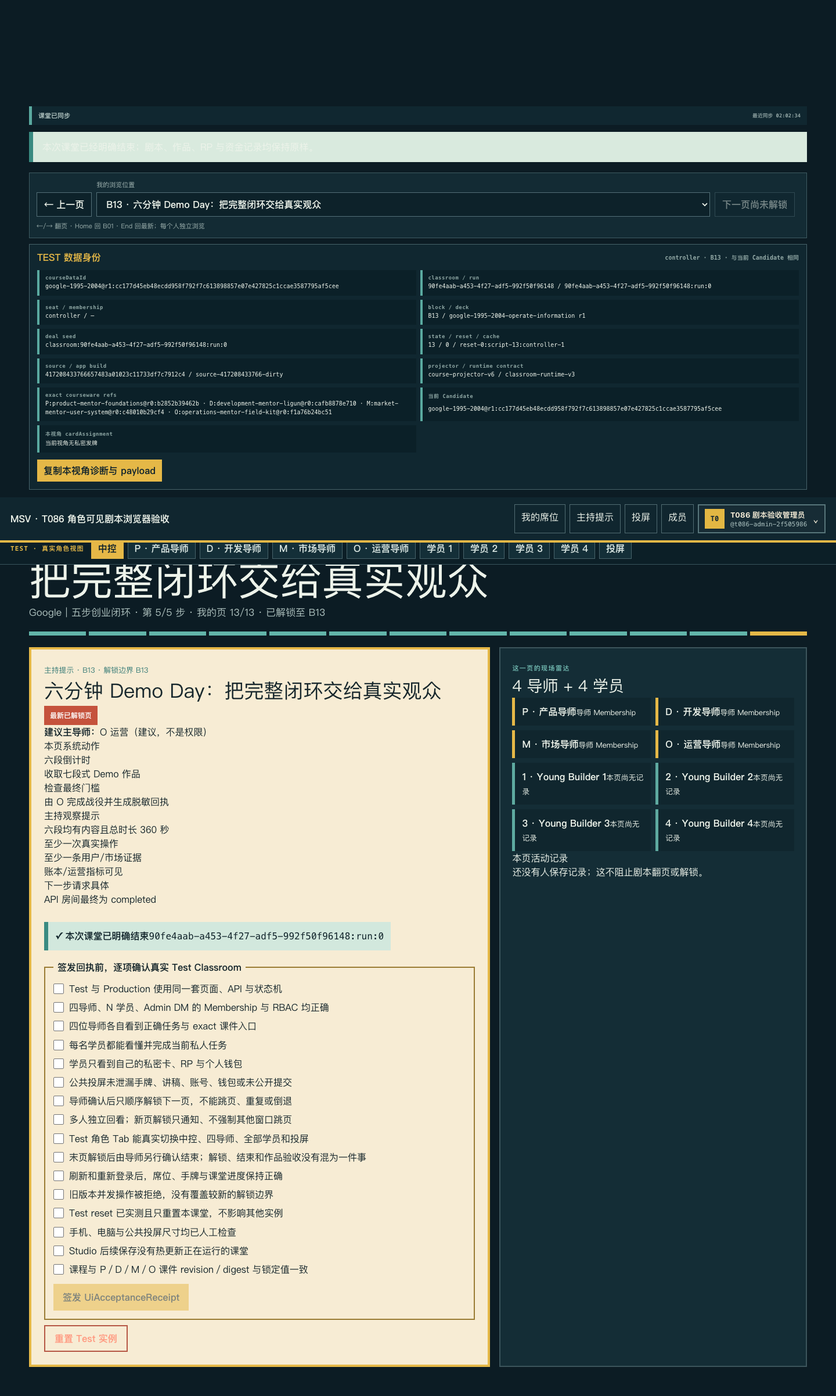
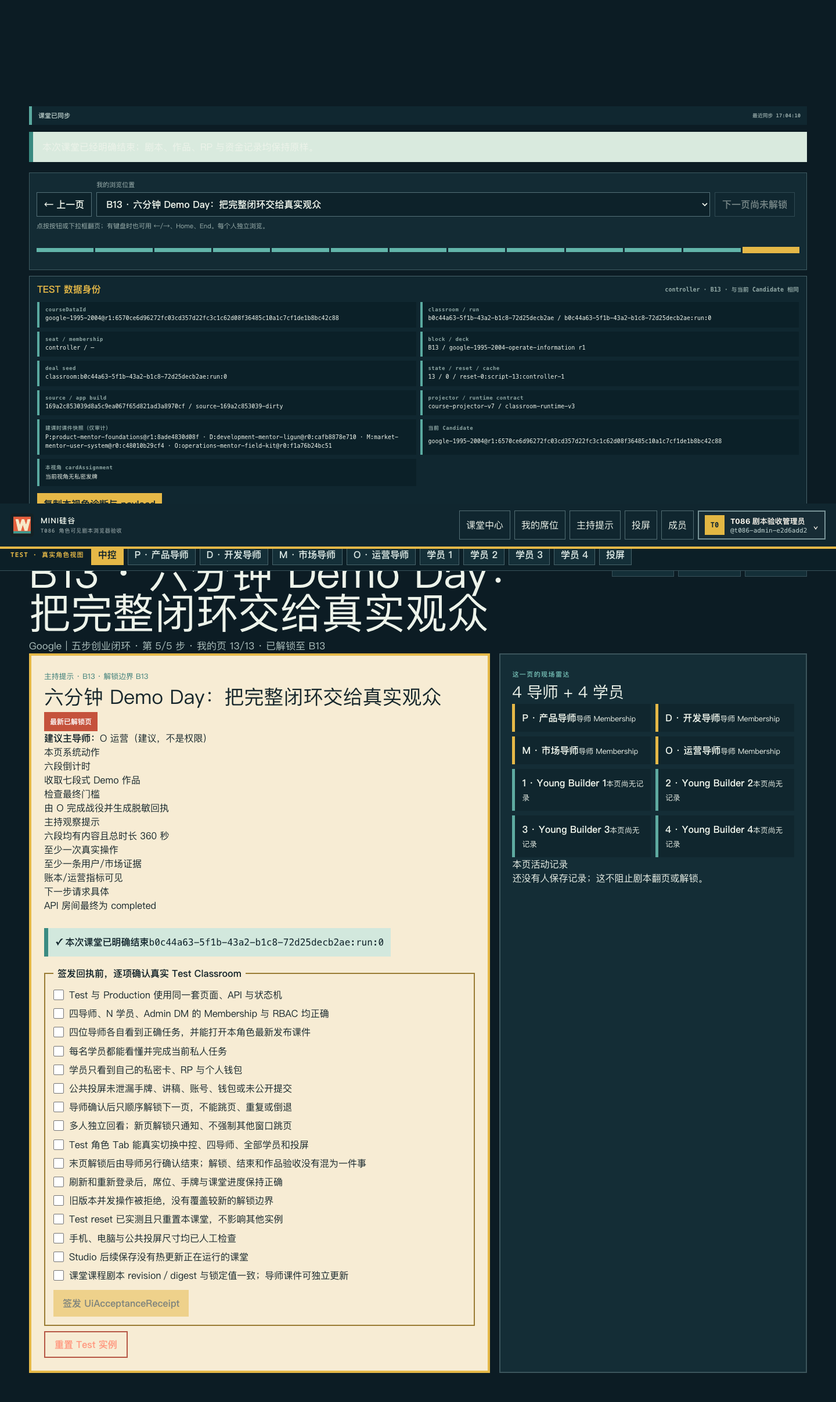
补齐全站主页Logo并纠正任务状态
Bug修复:
- 为课堂运行时、投屏、课件外壳和加载错误态补齐共享主页Logo
- 将课程框架旧顶部标记修复为可访问的根主页入口
- 修复移动端课堂进度条按钮造成的横向溢出

测试:
- 扩展品牌契约与真实课堂浏览器点击、键盘和移动端回归
- 更新T-086浏览器验收截图与机器回执

文档:
- 修正T-082、T-109和T-097的虚假完成状态与品牌路由边界

diff --git a/app/classroom/platform.module.css b/app/classroom/platform.module.css
@@ -10,6 +10,7 @@
 .pageNavigator{display:grid;grid-template-columns:auto minmax(220px,1fr) auto auto;align-items:end;gap:8px;margin-bottom:18px;padding:12px;background:#132b34;border:1px solid #3e5b62}
 .pageNavigator label{display:grid;min-width:0;gap:4px}.pageNavigator label span,.pageNavigator>small{color:#9db1ae;font-size:11px}
 .pageNavigator select,.pageNavigator button{min-height:42px;padding:0 12px;color:#edf3ea;background:#0d222a;border:1px solid #547078;font-weight:800}.pageNavigator select{width:100%;min-width:0}
+.pageNavigator .progressSegment{min-width:0;min-height:44px;padding:0;background:transparent;border:0}
 .pageNavigator button:disabled{cursor:not-allowed;opacity:.45}.pageNavigator .latestButton{color:#10232c;background:#72bbb2;border-color:#72bbb2}.pageNavigator>small{grid-column:1/-1}
 .screenShell{padding:0}.screenShell>.pageNavigator{margin:12px 18px}.screenShell>.notice,.screenShell>.error{margin:12px 18px}
 .dialogBackdrop{position:fixed;z-index:100;inset:0;display:grid;place-items:center;padding:18px;background:#061016d9}
@@ -52,13 +53,20 @@
 .privacyShield{position:fixed;z-index:1000;inset:0;display:none;place-content:center;gap:12px;padding:max(28px,env(safe-area-inset-top)) max(28px,env(safe-area-inset-right)) max(28px,env(safe-area-inset-bottom)) max(28px,env(safe-area-inset-left));color:#f8efd8;background:#0c1c24;background-image:linear-gradient(rgba(98,181,170,.08) 1px,transparent 1px),linear-gradient(90deg,rgba(98,181,170,.08) 1px,transparent 1px);background-size:32px 32px;text-align:center}.privacyShield span{color:#e5b847;font:900 12px var(--font-mono);letter-spacing:.14em}.privacyShield b{font-size:clamp(30px,7vw,64px);line-height:1.05}.privacyShield small{color:#adc0bd;font-size:16px}:global(html[data-msv-classroom-concealed="true"]) .privacyShield{display:grid}
 .runtime button,.runtime a,.runtime input,.runtime textarea,.runtime select{touch-action:manipulation}
 .runtimeTop a{display:inline-flex;align-items:center}
+.runtimeBrand{min-width:0;max-width:min(420px,42vw)}
+.runtimeBrand :global(.msv-brand-home__mark){width:40px;height:40px;flex-basis:40px}
+.runtimeBrand :global(.msv-brand-home__copy){min-width:0}
+.runtimeBrand :global(.msv-brand-home__copy strong),.runtimeBrand :global(.msv-brand-home__copy small){overflow:hidden;text-overflow:ellipsis;white-space:nowrap}
+.runtimeStandaloneBrand{display:flex;align-items:center;padding:max(12px,env(safe-area-inset-top)) max(18px,env(safe-area-inset-right)) 12px max(18px,env(safe-area-inset-left));color:#f8efd8;background:#10262f;border-bottom:4px solid #e5b847}
+.screenBrand{position:fixed;z-index:30;top:max(18px,env(safe-area-inset-top));left:max(18px,env(safe-area-inset-left));display:grid;width:48px;height:48px;place-items:center;padding:2px;background:#10262fe6;border:2px solid #e5b847;box-shadow:4px 4px 0 #071820}
+.screenBrand :global(.msv-brand-home__mark){width:40px;height:40px;flex-basis:40px}
 .runtimeTop{padding-top:max(12px,env(safe-area-inset-top));padding-right:max(18px,env(safe-area-inset-right));padding-left:max(18px,env(safe-area-inset-left))}
 .runtimeMain{padding-right:max(clamp(18px,4vw,50px),env(safe-area-inset-right));padding-bottom:max(clamp(18px,4vw,50px),calc(env(safe-area-inset-bottom) + 18px));padding-left:max(clamp(18px,4vw,50px),env(safe-area-inset-left))}
 .testRoleTabs{padding-right:max(18px,env(safe-area-inset-right));padding-left:max(18px,env(safe-area-inset-left))}
 .submission textarea,.structuredForm input,.structuredForm textarea,.reviewCard textarea{font-size:16px;scroll-margin-block:18svh 36svh}
 .privateCard{overflow-wrap:anywhere}
 @media(pointer:coarse){.runtime button,.runtime a,.runtime select{min-height:44px}.testRoleTabs button,.pageNavigator button,.pageNavigator select,.syncStatus button{min-height:44px}}
-@media(max-width:700px){.runtimeTop{padding-top:max(10px,env(safe-area-inset-top));padding-right:max(12px,env(safe-area-inset-right));padding-left:max(12px,env(safe-area-inset-left))}.runtimeMain{padding-top:18px;padding-right:max(12px,env(safe-area-inset-right));padding-bottom:max(42px,calc(env(safe-area-inset-bottom) + 24px));padding-left:max(12px,env(safe-area-inset-left))}.testRoleTabs{padding-right:max(12px,env(safe-area-inset-right));padding-left:max(12px,env(safe-area-inset-left))}.pageNavigator select,.pageNavigator button{min-height:48px}.card{padding:16px}.privateCard{padding:16px;font-size:16px}.privateCard p,.privateCard span{line-height:1.6}.structuredForm input,.structuredForm textarea,.submission textarea,.reviewCard textarea{font-size:16px}.screenControls{right:max(10px,env(safe-area-inset-right));bottom:max(10px,env(safe-area-inset-bottom));left:max(10px,env(safe-area-inset-left))}}
+@media(max-width:700px){.runtimeTop{padding-top:max(10px,env(safe-area-inset-top));padding-right:max(12px,env(safe-area-inset-right));padding-left:max(12px,env(safe-area-inset-left))}.runtimeBrand{width:44px;min-width:44px}.runtimeBrand :global(.msv-brand-home__copy){display:none}.runtimeMain{padding-top:18px;padding-right:max(12px,env(safe-area-inset-right));padding-bottom:max(42px,calc(env(safe-area-inset-bottom) + 24px));padding-left:max(12px,env(safe-area-inset-left))}.testRoleTabs{padding-right:max(12px,env(safe-area-inset-right));padding-left:max(12px,env(safe-area-inset-left))}.pageNavigator select,.pageNavigator button{min-height:48px}.card{padding:16px}.privateCard{padding:16px;font-size:16px}.privateCard p,.privateCard span{line-height:1.6}.structuredForm input,.structuredForm textarea,.submission textarea,.reviewCard textarea{font-size:16px}.screenControls{right:max(10px,env(safe-area-inset-right));bottom:max(10px,env(safe-area-inset-bottom));left:max(10px,env(safe-area-inset-left))}}
 
 /* T-111 · dependency-aware physical deletion for isolated TEST instances. */
 .deleteRoomAction{color:#fff3df!important;background:#8b3028!important;border-color:#ef7557!important}.deleteRoomAction:hover,.deleteRoomAction:focus-visible{background:#a93d31!important}.deleteDialog{width:min(820px,100%);max-height:min(92svh,900px);overflow:auto}.deleteTarget{display:grid;gap:5px;padding:13px;color:#f8efd8;background:#142d36;border-left:7px solid #ef7557}.deleteTarget b{font-size:20px}.deleteTarget span{color:#e5b847;font:900 11px var(--font-mono);letter-spacing:.08em}.deleteTarget code{color:#bed0cc;font:11px/1.45 var(--font-mono);overflow-wrap:anywhere}.deletePreviewState,.deleteTombstone{padding:12px;line-height:1.5}.deletePreviewState{color:#173039;background:#d9eade;border-left:6px solid #5aa99f}.deleteTombstone{color:#5d342c;background:#f2dfae;border-left:6px solid #c5523c}.deleteColumns{display:grid;grid-template-columns:repeat(2,minmax(0,1fr));gap:10px;margin-top:13px}.deleteColumns>section{padding:13px;background:#fffaf0;border:2px solid #baa98a}.deleteColumns h3{margin:0 0 8px}.deleteColumns ul{margin:0;padding-left:20px}.deleteColumns li{margin:5px 0!important}.deleteBlockers{display:grid;gap:9px;margin-top:13px;padding:14px;color:#fff1df;background:#6f302a;border:3px solid #ef7557}.deleteBlockers h3,.deleteBlockers p{margin:0}.deleteBlockers article{display:grid;gap:4px;padding:10px;background:#4c241f}.deleteBlockers article b{color:#ffd36d}.deleteBlockers article p{line-height:1.45}.deleteBlockers code{display:block;color:#f1d8cf;font:10px/1.45 var(--font-mono);overflow-wrap:anywhere}.deleteConfirmation{display:flex;align-items:flex-start;gap:10px;margin-top:14px;padding:13px;color:#fff1df;background:#6f302a;border:2px solid #ef7557;font-weight:900;line-height:1.45}.deleteConfirmation input{width:22px;height:22px;flex:0 0 auto;margin:0;accent-color:#c5523c}.archiveWarning button{min-height:40px;padding:0 12px;color:#17272c;background:#e5b847;border:2px solid #17272c;font-weight:900}@media(max-width:700px){.deleteColumns{grid-template-columns:1fr}.deleteDialog{max-height:96svh}.deleteConfirmation{font-size:14px}}

diff --git a/app/classroom/ClassroomRuntime.tsx b/app/classroom/ClassroomRuntime.tsx
@@ -1,5 +1,6 @@
 "use client";
 import Link from "../components/NavigationLink";
+import { BrandHomeLink } from "../components/BrandHomeLink";
 
 import { useCallback, useEffect, useMemo, useRef, useState, type Dispatch, type SetStateAction } from "react";
 import { AccountMenu, type AccountMenuUser } from "../components/AccountMenu";
@@ -253,7 +254,7 @@ export default function ClassroomRuntime({ classroomId, view, user }: RuntimePro
   };
 
   if (error && !data) return <><ClassroomPrivacyShield /><RuntimeError error={error} /></>;
-  if (!data) return <main className={styles.runtime}><ClassroomPrivacyShield /><div className={styles.runtimeMain}>正在连接这一个 Classroom 实例…</div></main>;
+  if (!data) return <main className={styles.runtime}><ClassroomPrivacyShield /><RuntimeStandaloneBrand /><div className={styles.runtimeMain}>正在连接这一个 Classroom 实例…</div></main>;
   const screenMode = data.environment === "test" && selectedSurface === "screen";
   const readOnly = Boolean(data.archive);
   const roleProjectionReady = data.environment !== "test" || selectedSurface === "control" || selectedSurface === "screen"
@@ -403,8 +404,8 @@ export function ClassroomScreenRuntime({ classroomId }: { classroomId: string })
     return () => window.removeEventListener("keydown", handler);
   }, [data, navigate]);
   if (error && !data) return <RuntimeError error={error} />;
-  if (!data) return <main className={styles.runtime}><div className={styles.runtimeMain}>正在连接课堂共享画面…</div></main>;
-  return <><SharedScreen data={data} />{syncState === "offline" && <div className={styles.screenSync} role="status">投屏连接中断 · 正在等待网络恢复</div>}<div className={styles.screenControls}><button disabled={data.scriptNavigation.viewedIndex <= 0} onClick={() => navigate(data.scriptNavigation.unlockedBlocks[data.scriptNavigation.viewedIndex - 1]?.id)}>← 上一页</button>{data.scriptNavigation.viewedIndex < data.script.unlockedThroughIndex && <button onClick={() => navigate(data.scriptNavigation.latestUnlocked.id)}>回到最新 · {data.scriptNavigation.latestUnlocked.id}</button>}<button disabled={data.scriptNavigation.viewedIndex >= data.script.unlockedThroughIndex} onClick={() => navigate(data.scriptNavigation.unlockedBlocks[data.scriptNavigation.viewedIndex + 1]?.id)}>下一页 →</button></div></>;
+  if (!data) return <main className={styles.runtime}><RuntimeStandaloneBrand /><div className={styles.runtimeMain}>正在连接课堂共享画面…</div></main>;
+  return <><BrandHomeLink markOnly className={styles.screenBrand} /><SharedScreen data={data} />{syncState === "offline" && <div className={styles.screenSync} role="status">投屏连接中断 · 正在等待网络恢复</div>}<div className={styles.screenControls}><button disabled={data.scriptNavigation.viewedIndex <= 0} onClick={() => navigate(data.scriptNavigation.unlockedBlocks[data.scriptNavigation.viewedIndex - 1]?.id)}>← 上一页</button>{data.scriptNavigation.viewedIndex < data.script.unlockedThroughIndex && <button onClick={() => navigate(data.scriptNavigation.latestUnlocked.id)}>回到最新 · {data.scriptNavigation.latestUnlocked.id}</button>}<button disabled={data.scriptNavigation.viewedIndex >= data.script.unlockedThroughIndex} onClick={() => navigate(data.scriptNavigation.unlockedBlocks[data.scriptNavigation.viewedIndex + 1]?.id)}>下一页 →</button></div></>;
 }
 
 function RuntimeTop({ data, classroomId, user, selectedSurface, onSwitch }: { data: ClassroomInstanceDetail; classroomId: string; user: AccountMenuUser; selectedSurface: string; onSwitch: (surface: string) => void }) {
@@ -416,8 +417,8 @@ function RuntimeTop({ data, classroomId, user, selectedSurface, onSwitch }: { da
         ? `${data.adminDmMode === "primary" ? "Primary" : "Delegated"} Admin DM`
         : "课堂成员";
   return <><header className={styles.runtimeTop}>
-    <Link href="/classroom/"><b>MSV · {data.title}</b></Link>
-    <nav aria-label="课堂内导航"><Link href={`/classroom/${classroomId}/`}>我的席位</Link>{data.controlView && <Link href={`/classroom/${classroomId}/control`}>主持提示</Link>}<a href={`/classroom/${classroomId}/screen?block=${encodeURIComponent(data.page.id)}`} target="_blank" rel="noreferrer">投屏</a>{data.isAdminDm && <Link href={`/classroom/${classroomId}/members`}>成员</Link>}<AccountMenu user={user} returnTo={`/classroom/${classroomId}/`} context={{
+    <BrandHomeLink className={styles.runtimeBrand} title="MINI硅谷" subtitle={data.title} />
+    <nav aria-label="课堂内导航"><Link href="/classroom/">课堂中心</Link><Link href={`/classroom/${classroomId}/`}>我的席位</Link>{data.controlView && <Link href={`/classroom/${classroomId}/control`}>主持提示</Link>}<a href={`/classroom/${classroomId}/screen?block=${encodeURIComponent(data.page.id)}`} target="_blank" rel="noreferrer">投屏</a>{data.isAdminDm && <Link href={`/classroom/${classroomId}/members`}>成员</Link>}<AccountMenu user={user} returnTo={`/classroom/${classroomId}/`} context={{
       classroomId,
       classroomTitle: data.title,
       seatLabel,
@@ -952,7 +953,11 @@ function factoryHrefForArchived(data: ClassroomInstanceDetail): string {
   return `/classroom/?${query.toString()}#factory`;
 }
 
-function RuntimeError({ error }: { error: string }) { return <main className={styles.runtime}><div className={styles.runtimeMain}><div className={styles.error} role="alert"><b>无法进入课堂</b><p>{error}</p></div><Link className={styles.coursewareLink} href="/classroom/">返回我的课堂</Link></div></main>; }
+function RuntimeStandaloneBrand() {
+  return <div className={styles.runtimeStandaloneBrand}><BrandHomeLink title="MINI硅谷" subtitle="CLASSROOM · 课堂运行时" /></div>;
+}
+
+function RuntimeError({ error }: { error: string }) { return <main className={styles.runtime}><RuntimeStandaloneBrand /><div className={styles.runtimeMain}><div className={styles.error} role="alert"><b>无法进入课堂</b><p>{error}</p></div><Link className={styles.coursewareLink} href="/classroom/">返回我的课堂</Link></div></main>; }
 
 function currentClientMatrix() {
   const navigatorWithClientHints = navigator as Navigator & { userAgentData?: { platform?: string } };

diff --git a/app/course/course.module.css b/app/course/course.module.css
@@ -1,2 +1,2 @@
-.page{min-height:100svh;color:#14252c;background:#f5ecd5}.top{display:flex;align-items:center;justify-content:space-between;gap:16px;padding:14px clamp(18px,4vw,60px);color:#f8efd9;background:#12242d;border-bottom:5px solid #e3b743}.top>a,.top>nav>a{color:inherit;text-decoration:none}.top nav{display:flex;align-items:center;gap:8px}.top nav>a{padding:11px 14px;border:1px solid #6b888b}.hero{padding:clamp(38px,7vw,90px) clamp(18px,6vw,90px) 32px}.hero small{color:#2f7d77;font:900 13px var(--font-mono);letter-spacing:.14em}.hero h1{max-width:900px;margin:14px 0;font-size:clamp(46px,8vw,96px);line-height:.93}.hero p{max-width:760px;color:#5f6d70;font-size:18px;line-height:1.6}.grid{display:grid;grid-template-columns:repeat(2,minmax(0,1fr));gap:18px;padding:0 clamp(18px,6vw,90px) 80px}.card{padding:24px;background:#fffaf0;border:3px solid #20343c;box-shadow:6px 6px 0 #d8cbaa}.card[data-role=P]{border-top:10px solid #e3b743}.card[data-role=D]{border-top:10px solid #4b91ba}.card[data-role=M]{border-top:10px solid #3d998d}.card[data-role=O]{border-top:10px solid #df6849}.card small{font:900 12px var(--font-mono);letter-spacing:.12em}.card h2{margin:12px 0 8px}.meta{color:#697679;font:12px/1.6 var(--font-mono);overflow-wrap:anywhere}.card a,.launch{display:inline-flex;min-height:46px;align-items:center;margin-top:18px;padding:0 17px;color:#fff;background:#172f38;font-weight:900;text-decoration:none}.viewer{display:grid;min-height:100svh;grid-template-rows:auto auto 1fr;color:#f5ecd5;background:#0c1c24}.viewerHeader{display:flex;align-items:center;justify-content:space-between;gap:18px;padding:12px 18px;border-bottom:1px solid #37505a}.viewerHeader>a{color:inherit;text-decoration:none}.viewerMeta{padding:16px 20px;background:#132b35;border-bottom:4px solid #e3b743}.viewerMeta small{color:#71bdb3;font:900 11px var(--font-mono);letter-spacing:.12em}.viewerMeta h1{margin:6px 0 0;font-size:clamp(22px,4vw,36px)}.viewerMeta code{display:block;margin-top:8px;color:#b7cacb;font:11px/1.45 var(--font-mono);overflow-wrap:anywhere}.frame{width:100%;height:calc(100svh - 170px);min-height:580px;background:#fff;border:0}.staticLaunch{display:grid;place-items:center;padding:35px;background:#f5ecd5}.staticLaunch section{max-width:720px;padding:36px;color:#17272d;background:#fffaf0;border:4px solid #17272d;box-shadow:10px 10px 0 #e3b743}.staticLaunch h2{font-size:clamp(30px,5vw,55px)}.staticLaunch p{font-size:18px;line-height:1.6}.warning{padding:12px 16px;color:#17272d;background:#e3b743;font-weight:800}@media(max-width:720px){.grid{grid-template-columns:1fr}.top nav>a,.viewerHeader>b{display:none}.hero h1{font-size:48px}.viewerMeta{padding:12px 14px}.frame{height:calc(100svh - 130px)}}
+.page{min-height:100svh;color:#14252c;background:#f5ecd5}.top{display:flex;align-items:center;justify-content:space-between;gap:16px;padding:14px clamp(18px,4vw,60px);color:#f8efd9;background:#12242d;border-bottom:5px solid #e3b743}.top>a,.top>nav>a{color:inherit;text-decoration:none}.top nav{display:flex;align-items:center;gap:8px}.top nav>a{padding:11px 14px;border:1px solid #6b888b}.hero{padding:clamp(38px,7vw,90px) clamp(18px,6vw,90px) 32px}.hero small{color:#2f7d77;font:900 13px var(--font-mono);letter-spacing:.14em}.hero h1{max-width:900px;margin:14px 0;font-size:clamp(46px,8vw,96px);line-height:.93}.hero p{max-width:760px;color:#5f6d70;font-size:18px;line-height:1.6}.grid{display:grid;grid-template-columns:repeat(2,minmax(0,1fr));gap:18px;padding:0 clamp(18px,6vw,90px) 80px}.card{padding:24px;background:#fffaf0;border:3px solid #20343c;box-shadow:6px 6px 0 #d8cbaa}.card[data-role=P]{border-top:10px solid #e3b743}.card[data-role=D]{border-top:10px solid #4b91ba}.card[data-role=M]{border-top:10px solid #3d998d}.card[data-role=O]{border-top:10px solid #df6849}.card small{font:900 12px var(--font-mono);letter-spacing:.12em}.card h2{margin:12px 0 8px}.meta{color:#697679;font:12px/1.6 var(--font-mono);overflow-wrap:anywhere}.card a,.launch{display:inline-flex;min-height:46px;align-items:center;margin-top:18px;padding:0 17px;color:#fff;background:#172f38;font-weight:900;text-decoration:none}.viewer{display:grid;min-height:100svh;grid-template-rows:auto auto 1fr;color:#f5ecd5;background:#0c1c24}.viewerHeader{display:flex;align-items:center;justify-content:space-between;gap:18px;padding:12px 18px;border-bottom:1px solid #37505a}.viewerHeader a{color:inherit;text-decoration:none}.viewerHeaderStart{display:flex;align-items:center;gap:12px}.viewerHeaderStart :global(.msv-brand-home){width:44px;min-width:44px}.viewerMeta{padding:16px 20px;background:#132b35;border-bottom:4px solid #e3b743}.viewerMeta small{color:#71bdb3;font:900 11px var(--font-mono);letter-spacing:.12em}.viewerMeta h1{margin:6px 0 0;font-size:clamp(22px,4vw,36px)}.viewerMeta code{display:block;margin-top:8px;color:#b7cacb;font:11px/1.45 var(--font-mono);overflow-wrap:anywhere}.frame{width:100%;height:calc(100svh - 170px);min-height:580px;background:#fff;border:0}.staticLaunch{display:grid;place-items:center;padding:35px;background:#f5ecd5}.staticLaunch section{max-width:720px;padding:36px;color:#17272d;background:#fffaf0;border:4px solid #17272d;box-shadow:10px 10px 0 #e3b743}.staticLaunch h2{font-size:clamp(30px,5vw,55px)}.staticLaunch p{font-size:18px;line-height:1.6}.warning{padding:12px 16px;color:#17272d;background:#e3b743;font-weight:800}@media(max-width:720px){.grid{grid-template-columns:1fr}.top nav>a,.viewerHeader>b{display:none}.hero h1{font-size:48px}.viewerMeta{padding:12px 14px}.frame{height:calc(100svh - 130px)}}
 .previewWarning{display:inline-flex;margin-top:10px;padding:7px 10px;color:#10242c;background:#e3b743;font:800 12px var(--font-mono)}

diff --git a/tests/brand-contract.test.ts b/tests/brand-contract.test.ts
@@ -20,6 +20,9 @@ test("React surfaces share one accessible root-home logo primitive", async () =>
     "app/account/AccountClient.tsx",
     "app/classroom/ClassroomHub.tsx",
     "app/classroom/ClassroomApp.tsx",
+    "app/classroom/ClassroomRuntime.tsx",
+    "app/course/[slug]/CoursewareFrame.tsx",
+    "app/classroom/[classroomId]/courseware/[mentorRole]/page.tsx",
     "app/qa/QaClient.tsx",
     "app/not-found.tsx",
   ];
@@ -59,11 +62,23 @@ test("Classroom top navigation has no injected UI control or reserved overlap sl
   const themeRuntime = await source("deploy/minisv/site/ui-theme.js");
 
   assert.match(runtime, /className=\{styles\.runtimeTop\}[\s\S]*aria-label="课堂内导航"/);
+  assert.match(runtime, /<BrandHomeLink className=\{styles\.runtimeBrand\}/, "live classroom header must use the shared root-home mark");
+  assert.match(runtime, /<BrandHomeLink markOnly className=\{styles\.screenBrand\}/, "shared projection must retain a compact root-home mark");
   for (const label of ["我的席位", "主控", "投屏", "成员", "退出"]) assert.match(runtime, new RegExp(label));
   assert.doesNotMatch(runtime, /data-msv-theme-slot|msv-ui-switch/);
   assert.match(styles, /\.runtimeTop\{[^}]*display:flex[^}]*justify-content:space-between/);
   assert.doesNotMatch(themeRuntime, /function mountSwitcher|createElement\("button"\)/);
   assert.match(themeRuntime, /root\.dataset\.msvTheme = "adventure"/);
+});
+
+test("independently hydrated framework repairs its legacy top marker after load", async () => {
+  const runtime = await source("deploy/minisv/site/ui-theme.js");
+  assert.match(runtime, /function mountFrameworkBrandHome\(\)/);
+  assert.match(runtime, /pathname !== "\/framework\/"/);
+  assert.match(runtime, /setAttribute\("href", "\/"\)/);
+  assert.match(runtime, /setAttribute\("aria-label", "返回 Mini Silicon Valley 主页"\)/);
+  assert.match(runtime, /mark\.src = "\/favicon\.svg"/);
+  assert.match(runtime, /window\.addEventListener\("load", mountSharedNavigation/);
 });
 
 test("brand metadata, manifest, error routing and editor leave guard stay coherent", async () => {

diff --git a/app/classroom/[classroomId]/courseware/[mentorRole]/page.tsx b/app/classroom/[classroomId]/courseware/[mentorRole]/page.tsx
@@ -6,6 +6,7 @@ import CoursewareFrame from "../../../../course/[slug]/CoursewareFrame";
 import { getClassroomInstance } from "../../../../lib/classroom-platform-store";
 import { CLASSROOM_MENTOR_ROLES, type ClassroomMentorRole } from "../../../../lib/classroom-factory";
 import { defaultCoursewareRefs, listCourseware, loadCoursewareExact } from "../../../../lib/courseware-store";
+import { BrandHomeLink } from "../../../../components/BrandHomeLink";
 import styles from "../../../../course/course.module.css";
 
 export const dynamic = "force-dynamic";
@@ -41,7 +42,7 @@ export default async function ClassroomCoursewarePage({ params }: { params: Prom
   const item = await loadCoursewareExact(db, ref.packageId, ref.revision, ref.digest);
   if (item.availability === "placeholder") {
     return <main className={styles.viewer}>
-      <header className={styles.viewerHeader}><a href={`/classroom/${encodeURIComponent(classroomId)}/`}>← 返回课堂</a><b>Mini Silicon Valley · {role} 导师最新课件</b></header>
+      <header className={styles.viewerHeader}><div className={styles.viewerHeaderStart}><BrandHomeLink markOnly /><a href={`/classroom/${encodeURIComponent(classroomId)}/`}>← 返回课堂</a></div><b>Mini Silicon Valley · {role} 导师最新课件</b></header>
       <div className={styles.viewerMeta}><small>COURSEWARE PLACEHOLDER · {role}</small><h1>尚未提供真实导师课件</h1><code>{item.packageId} · r{item.revision} · {item.digest}</code></div>
       <div className={styles.staticLaunch}><section><span className={styles.warning}>内部占位 · 不是正式课件</span><h2>{item.title}</h2><p>这条绑定只用于 Test Classroom 验证四导师结构。课程组尚未上传并发布 {role} 导师真实课件，因此系统不会展示一个看似可用、实际失效的播放链接。</p></section></div>
     </main>;

diff --git a/deploy/minisv/site/ui-theme.js b/deploy/minisv/site/ui-theme.js
@@ -64,19 +64,38 @@
     document.body.appendChild(nav);
   }
 
+  function mountFrameworkBrandHome() {
+    var pathname = window.location.pathname.replace(/\/+$/, "/");
+    if (pathname !== "/framework/") return;
+    var link = document.querySelector('nav[aria-label="课程方案章节导航"] a[aria-label="返回页面顶部"]');
+    if (!link) return;
+    link.setAttribute("href", "/");
+    link.setAttribute("aria-label", "返回 Mini Silicon Valley 主页");
+    link.classList.add("msv-static-brand", "msv-framework-brand-home");
+    var oldMark = link.querySelector("b");
+    if (!oldMark || link.querySelector('img[src="/favicon.svg"]')) return;
+    var mark = document.createElement("img");
+    mark.src = "/favicon.svg";
+    mark.alt = "";
+    mark.setAttribute("aria-hidden", "true");
+    mark.width = 44;
+    mark.height = 44;
+    oldMark.replaceWith(mark);
+  }
+
+  function mountSharedNavigation() {
+    applyCanonicalTheme();
+    mountFrameworkBrandHome();
+    mountPublicNavigator();
+  }
+
   // The latest Adventure skin is the single product UI. Apply the root
   // contract immediately so there is no classic-theme flash; mount only the
   // optional navigation enhancement after independently built pages hydrate.
   applyCanonicalTheme();
   if (document.readyState === "complete") {
-    window.setTimeout(function () {
-      applyCanonicalTheme();
-      mountPublicNavigator();
-    }, 0);
+    window.setTimeout(mountSharedNavigation, 0);
   } else {
-    window.addEventListener("load", function () {
-      applyCanonicalTheme();
-      mountPublicNavigator();
-    }, { once: true });
+    window.addEventListener("load", mountSharedNavigation, { once: true });
   }
 })();

diff --git a/app/course/[slug]/CoursewareFrame.tsx b/app/course/[slug]/CoursewareFrame.tsx
@@ -3,6 +3,7 @@
 import Link from "../../components/NavigationLink";
 
 import { AccountMenu, type AccountMenuUser } from "../../components/AccountMenu";
+import { BrandHomeLink } from "../../components/BrandHomeLink";
 import type { CoursewareContent } from "../../lib/courseware-store";
 import styles from "../course.module.css";
 
@@ -43,7 +44,7 @@ export default function CoursewareFrame({
     ? `/studio/courseware/${encodeURIComponent(item.packageId)}/?revision=${item.revision}&digest=${item.digest}`
     : exactHref(item, initialSlide, initialStep));
   const header = <header className={styles.viewerHeader}>
-    <Link href={backHref}>← {backLabel}</Link>
+    <div className={styles.viewerHeaderStart}><BrandHomeLink markOnly /><Link href={backHref}>← {backLabel}</Link></div>
     <b>Mini Silicon Valley · {item.mentorRole} 导师</b>
     <AccountMenu user={user} returnTo={returnTo} />
   </header>;

diff --git a/tools/live-run/tests/verify_t086_script_runtime_browser.py b/tools/live-run/tests/verify_t086_script_runtime_browser.py
@@ -188,6 +188,36 @@ def main() -> None:
                     control.get_by_role("link", name="进入我的课堂").click()
                     control.wait_for_url(f"**/classroom/{room_id}/")
                     expect(control.locator("h1").filter(has_text="B01 ·")).to_be_visible()
+                    classroom_brand = control.get_by_role("link", name="返回 Mini Silicon Valley 主页")
+                    expect(classroom_brand).to_be_visible()
+                    assert classroom_brand.get_attribute("href") == "/"
+
+                    # The brand contract is a real current-tab navigation on
+                    # every runtime shell, not a text-only title or onclick.
+                    brand_probe = context.new_page()
+                    brand_probe.goto(f"{base}/classroom/{room_id}/", wait_until="networkidle")
+                    brand_probe.get_by_role("link", name="返回 Mini Silicon Valley 主页").click()
+                    brand_probe.wait_for_url(f"{base}/")
+                    brand_probe.close()
+
+                    screen_probe = context.new_page()
+                    screen_probe.goto(f"{base}/classroom/{room_id}/screen?block=B01", wait_until="networkidle")
+                    screen_brand = screen_probe.get_by_role("link", name="返回 Mini Silicon Valley 主页")
+                    expect(screen_brand).to_be_visible()
+                    assert screen_brand.get_attribute("href") == "/"
+                    screen_brand.click()
+                    screen_probe.wait_for_url(f"{base}/")
+                    screen_probe.close()
+
+                    courseware_probe = context.new_page()
+                    courseware_probe.goto(f"{base}/classroom/{room_id}/courseware/P/", wait_until="networkidle")
+                    courseware_brand = courseware_probe.get_by_role("link", name="返回 Mini Silicon Valley 主页")
+                    expect(courseware_brand).to_be_visible()
+                    assert courseware_brand.get_attribute("href") == "/"
+                    courseware_brand.click()
+                    courseware_probe.wait_for_url(f"{base}/")
+                    courseware_probe.close()
+
                     control.goto(f"{base}/classroom/{room_id}/control?block=B01", wait_until="networkidle")
                     expect(control.locator("h1").filter(has_text="B01 ·")).to_be_visible()
 
@@ -268,6 +298,12 @@ def main() -> None:
                         "stage1Keyboard": True,
                         "stage1FullFields": True,
                         "nativeClassroomLink": True,
+                        "sharedBrandHome": {
+                            "classroomRuntime": True,
+                            "sharedScreen": True,
+                            "coursewareShell": True,
+                            "nativeCurrentTabNavigation": True,
+                        },
                         "independentClients": True,
                         "unlockNotification": True,
                         "returnToLatest": True,

diff --git a/docs/BRAND_ASSET_INVENTORY.md b/docs/BRAND_ASSET_INVENTORY.md
@@ -7,21 +7,18 @@
 ## 资产与边界
 
 - 受控源：`public/favicon.svg`；发布时复制为站点根 `/favicon.svg`。
-- 自有页面可使用统一品牌（主站、控制台、编辑器、Alpha、Classroom、QA、404、loading、manifest、OG）。
-- `/course/` 是同事原样交付：必须字节不变，不注入品牌、不改 HTML/CSS/资源引用。
+- 自有页面可使用统一品牌（主站、Studio、编辑器、Classroom、课件目录与播放外壳、家长问答、404、loading、manifest、OG）。
+- `/course/` 是平台自有的受保护课件目录；`/courseware/*` 下的 P／D／M 已发布课件 bundle 才是原样交付的不可变字节，不注入品牌、不改 HTML/CSS/资源引用。
 - `/framework/` 是本项目自有方法页面，可使用共享 favicon 与统一品牌样式。
 - 密钥、令牌、生产 cookie、内部路径和认证材料不得写入文档、HTML、manifest、OG 或日志。
 
 ## 路由矩阵
 
-| 路由/产物 | 品牌策略 | 例外 |
-|---|---|---|
-| `/` 主站 | 使用 `/favicon.svg` 与统一品牌 | 无 Logo 时不得留空白临时占位 |
-| `/control/`、`/control/editor/` | 使用共享 favicon/品牌 | 写入口仅限 `/control/editor/` |
-| `/alpha/`、`/classroom/` | 使用共享 favicon/品牌 | 内容快照仍受课程发布链约束 |
-| `/qa/`、`/404`、loading、manifest、OG | 使用共享 favicon/品牌 | OG 不得泄露内部元数据 |
-| `/framework/` | 可统一品牌 | 属于本项目自有页面 |
-| `/course/` | 原样交付 | 字节级不变，禁止注入品牌 |
+- 公开站点：`/`、`/world/`、`/framework/`、`/parents/`、404 均使用 `/favicon.svg`。`/framework/` 的独立水合页在 `load` 之后由共享 runtime 把旧的“回到顶部”标记修复为根主页 Logo，不在水合前改写 React DOM。
+- 账号与内部工作台：`/auth/*`、`/account/`、`/studio/*` 使用共享 `BrandHomeLink`；课程编辑器保留未保存离开确认。
+- 课堂：`/classroom/`、真实课堂席位、主控、成员、共享投屏及加载／错误态均使用共享根主页 Logo。移动窄屏仅收起字标，不隐藏图形入口。
+- 课件服务：`/course/` 目录、课件播放外壳与课堂课件占位态使用共享 Logo。其内嵌的 P／D／M 已发布课件 bundle 仍是不可变字节，不注入全站品牌代码。
+- 退役入口：`/alpha/`、`/control/`、`/control/editor/` 现为 410，不伪装成可用品牌页；对应功能已归入 `/studio/` 和 `/classroom/`。
 
 ## 验收
 
@@ -34,4 +31,4 @@ npm run build
 MSV_APP_URL=http://127.0.0.1:4178/ python3 tools/live-run/tests/verify_brand_browser.py
 ```
 
-发布前逐路由检查 favicon、标题、OG 与 `/course/` 字节哈希；发现 `/course/` 变化即阻断发布。以上是验收命令，不代表本文件已执行或已部署。
+发布前逐路由检查 favicon、标题、OG 与不可变课件 bundle 字节哈希；发现课件 bundle 变化即阻断发布。还必须在真实浏览器中通过普通点击和 Enter 验证“当前标签页回到 `/`”，仅检查 `href` 不算完成。以上是验收命令，不代表本文件已执行或已部署。

diff --git a/.codex/inbox/todos/82-reuse-chj-ui-and-logo-assets-across-site.md b/.codex/inbox/todos/82-reuse-chj-ui-and-logo-assets-across-site.md
@@ -2,9 +2,9 @@
 type: todo
 id: T-082
 title: "统一全站 Logo 资产并将左上角 Logo 设为主页入口"
-status: completed
+status: in-progress
 created: 2026-09-06
-updated: 2026-09-07
+updated: 2026-09-12
 captured_by: project-inbox
 tags:
   - todo
@@ -93,6 +93,7 @@ tags:
 - [x] favicon、manifest 和链接分享预览图与页面品牌一致。
 - [x] 替换资产后通过静态资源 200、无混合内容、无 404、无布局溢出和视觉回归验收。
 - [x] 不因 Logo/UI 整理改变 Alpha、Classroom 或课程编辑器的课程真值和运行状态。
+- [ ] 当前修复已从受控 Git commit 部署至 Hecate，并在 `https://minisv.vip` 完成公开页、登录后课堂与课件外壳的普通点击复验。
 
 ## 风险与前置
 
@@ -105,3 +106,14 @@ tags:
 - 最终 Hecate release：`20260907T180022Z-truth-chain-final2`。
 - 部署源码 SHA：`40c652b562a7634135ff645a9c3cddf32a9da784`。
 - 相关证据：<https://minisv.vip/>。
+
+## 2026-09-12 完成状态纠正
+
+此前的 `completed` 与逐项 `[x]` 不能作为全站实际完成证据。重新对照线上页面后确认：
+
+- `/framework/` 左上角品牌仍链接 `#top`，辅助名称仍是“返回页面顶部”，没有使用共享 `/favicon.svg`。
+- 真实 Classroom 席位、主控、成员和共享投屏路由没有统一的根主页 Logo；加载／错误态同样遗漏。
+- 课件播放外壳与课堂课件占位态只有返回列表文字，没有统一左上角主页 Logo。
+- 旧品牌测试只枚举了部分组件，因而在上述入口缺失时仍会通过。
+
+本单状态已恢复为 `in-progress`。源码已补齐上述入口并扩展契约测试；只有完成浏览器实际点击、响应式视觉检查、生产部署与线上复验后，才可重新关闭。历史 `20260907T180022Z-truth-chain-final2` 回执仅保留为当时发布记录，不再证明当前验收标准全部满足。

diff --git a/.codex/inbox/todos/109-public-website-internal-navigation-and-workshop-archive.md b/.codex/inbox/todos/109-public-website-internal-navigation-and-workshop-archive.md
@@ -2,7 +2,7 @@
 type: todo
 id: T-109
 title: "重组官网、教学与内部入口，整合 World 并深层归档 Workshop"
-status: completed
+status: in-progress
 created: 2026-09-10
 updated: 2026-09-11
 captured_by: project-inbox
@@ -113,3 +113,7 @@ UI 补充确认：**“记得整体都使用新的 UI 哦，也就是那个 skil
 - 部署后 Hecate health、远端 public smoke 与外部 public smoke 全通过；`/world-preview.json` 为 200，三套课件匿名访问仍为 401，Workshop 保持登录回跳，退役入口保持 410。
 - 真实 Chromium 逐页打开官网、World、课程框架、家长问答和登录页，所有文档 200，`pageerror`、console error 与关键资源失败均为 0；课程框架保留原生 hydrated brand、公共首页入口可见且无 React 418。机器证据：`docs/qa/t109-public-internal-ia/production-r4-machine-evidence.json`。
 - 本轮没有创建或改写人工 `ViewAcceptanceReceipt`／`UiAcceptanceReceipt`，没有创建 Production Classroom，也没有把 Chromium 模拟记作真实平板验收。
+
+## 2026-09-12 状态纠正
+
+本单仍有“由真实资料所有者完成 Workshop 历史资料覆盖备份”这一项未完成，原文件也明确保留了 `[ ]`。因此不能继续标记为 `completed`，现恢复为 `in-progress`。官网与入口重组的工程发布记录仍然有效，但不代表历史资料收集已经由自动化代替完成。

diff --git a/.codex/inbox/todos/97-project-design-consistency-audit-and-roadmap.md b/.codex/inbox/todos/97-project-design-consistency-audit-and-roadmap.md
@@ -162,3 +162,11 @@ node --import tsx "/项目dev/.codex/inbox/audits/2026-09-10-design-consistency/
 - [x] 实现前已按用户确认收口准入/完成语义，没有擅自重构产品规则。
 - [x] 保留旧课程、旧课件、课堂状态和人工审核历史。
 - [ ] 最终对用户回报本轮发现如何解决、哪些仍待人工验收；不把 TODO 已写等同于功能已完成。
+
+## 2026-09-12 Todo 真值复核纠正
+
+用户指出“完成状态”与线上可见行为不一致后，已停止按 YAML `status` 汇报完成度，并开始按“原始验收项 → 源码 → 浏览器 → 生产”复核：
+
+- 已确认 T-082 存在真实遗漏：`/framework/`、Classroom 运行页、共享投屏、课件外壳及部分加载／错误态没有完成统一主页 Logo 契约，T-082 已重新打开。
+- 已确认 T-109 自身仍保留一个未完成备份项，T-109 已重新打开。
+- 其余 `completed/done` 条目继续逐项查漏；没有实际证据前不再用状态字段推导“已经完成”。
